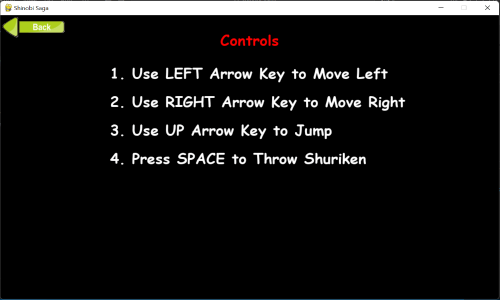
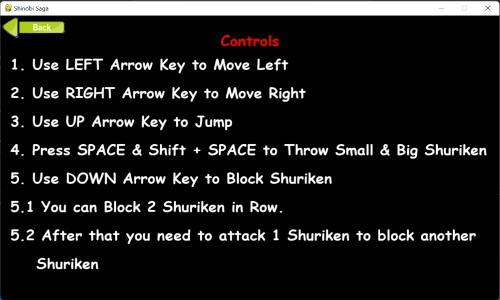
Update README.md & Screenshots

diff --git a/README.md b/README.md
@@ -22,7 +22,11 @@
 
 - 🧍♂ **Playable Characters**: Naruto (Player) vs Sasuke (Enemy)
 - 🎞 **Smooth Animations**: Idle, Run, Jump, Attack, Damage, Defeated, Victory
+- 🛡 **Block System**: Player can block attacks (up to 2 consecutive blocks)
 - 🗡 **Shuriken Combat**: Throwing projectiles with effects
+- 💥 **Damage System**: Small and big shuriken cause different damage animations
+- ⚰ **Defeat Animation**: Unique falling + stepping back + ground-sink animation
+- 🧠 **Smart AI**: Sasuke blocks automatically after hit and resets on next throw
 - ❤ **Health Bars** with Character Head Icons
 - 🎵 **Sound Effects**: Click, Hit, Jump, Block, Background Music
 - ⏸ **Pause Menu**: Resume, Restart, Exit, Home Navigation
@@ -146,6 +150,12 @@ python main.py
 ## 📄 License
 
 This project is licensed under the [MIT License](LICENSE).
+This game is for **educational and non-commercial** use only.
+
+---
+
+## Disclaimer
+This project is a fan-made tribute inspired by the Naruto anime and manga series. All intellectual property relating to Naruto belongs to its respective owners (Shueisha, TV Tokyo, Studio Pierrot, etc.). This game is developed for educational and non-commercial purposes only. No copyright infringement is intended.
 
 ---
 
